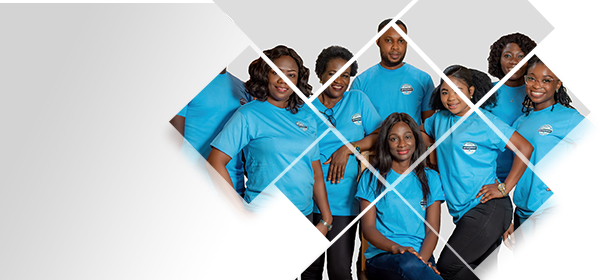
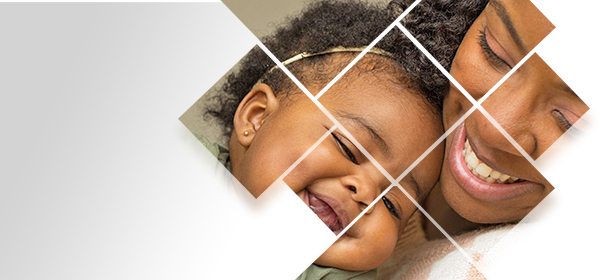
changed slideshow 3 and 4 to a new one and fixed the hero text for the slideshow images

diff --git a/index.html b/index.html
@@ -27,6 +27,10 @@
       rel="stylesheet"
       href="https://cdnjs.cloudflare.com/ajax/libs/font-awesome/4.7.0/css/font-awesome.min.css"
     />
+    <link
+      rel="stylesheet"
+      href="https://cdnjs.cloudflare.com/ajax/libs/font-awesome/6.2.0/css/all.min.css"
+    />
     <script src="http://code.jquery.com/jquery-3.1.1.js"></script>
     <script src="./js/multi-animated-counter.js"></script>
     <script src="https://ajax.googleapis.com/ajax/libs/angularjs/1.6.9/angular.min.js"></script>
@@ -282,10 +286,10 @@
                 <div class="slider">
                   <div class="content">
                     <div class="content-txt">
-                      <h2>Lab Staff & M.D.</h2>
+                      <h2>Focusing on Quality</h2>
                       <p>
-                        Nam ultrices pellentesque facilisis. In semper tellus
-                        mollis nisl pulvinar.
+                        Cross section photo of Director and Staff, representing
+                        our virtue & Quality.
                       </p>
                     </div>
                   </div>
@@ -299,10 +303,10 @@
                 <div class="slider">
                   <div class="content">
                     <div class="content-txt">
-                      <h2 id="styledText">Qualified Nurses</h2>
+                      <h2 id="styledText">Our Doctors, Our Pride!</h2>
                       <p>
-                        Nam ultrices pellentesque facilisis. In semper tellus
-                        mollis nisl pulvinar.
+                        We only work with the qualified, giving you guaranteed
+                        healthcare.
                       </p>
                     </div>
                   </div>
@@ -316,10 +320,10 @@
                 <div class="slider">
                   <div class="content">
                     <div class="content-txt">
-                      <h2>Qualified Scientist</h2>
+                      <h2>Geriatric Care</h2>
                       <p>
-                        Nam ultrices pellentesque facilisis. In semper tellus
-                        mollis nisl pulvinar.
+                        We offer creative aging for the old by caring for them
+                        at delicate age.
                       </p>
                     </div>
                   </div>
@@ -333,11 +337,8 @@
                 <div class="slider">
                   <div class="content">
                     <div class="content-txt">
-                      <h2>Lab Staff & M.D.</h2>
-                      <p>
-                        Nam ultrices pellentesque facilisis. In semper tellus
-                        mollis nisl pulvinar.
-                      </p>
+                      <h2>Paediatrics</h2>
+                      <p>A healthy home, a healthy child.</p>
                     </div>
                   </div>
                   <div class="image">
@@ -1088,18 +1089,18 @@
                 <a
                   href="https://www.facebook.com/thewestendhospital"
                   target="_blank"
-                  class="fa fa-facebook"
+                  class="fa-brands fa-facebook-f"
                 ></a>
-                <a href="#/" class="fa fa-twitter"></a>
+                <a href="#/" class="fa-brands fa-twitter"></a>
                 <a
                   href="https://instagram.com/westendhospitalwarri"
                   target="_blank"
-                  class="fa fa-instagram"
+                  class="fa-brands fa-instagram"
                 ></a>
                 <a
                   href="https://www.linkedin.com/company/westend-hospital"
                   target="_blank"
-                  class="fa fa-linkedin"
+                  class="fa-brands fa-linkedin-in"
                 ></a>
               </div>
             </div>

diff --git a/css/slideshow.css b/css/slideshow.css
@@ -1,5 +1,5 @@
-@import url('https://fonts.googleapis.com/css2?family=Dancing+Script:wght@700&family=Oxygen:wght@300;400;700&family=Poppins:wght@300;400;500;600;700;800;900&family=Raleway:wght@300;400;500;600;700;800;900&display=swap');
-@import url('https://fonts.googleapis.com/css2?family=Lora:wght@500;600;700&display=swap');
+@import url("https://fonts.googleapis.com/css2?family=Dancing+Script:wght@700&family=Oxygen:wght@300;400;700&family=Poppins:wght@300;400;500;600;700;800;900&family=Raleway:wght@300;400;500;600;700;800;900&display=swap");
+@import url("https://fonts.googleapis.com/css2?family=Lora:wght@500;600;700&display=swap");
 */
 /*
 
@@ -71,18 +71,16 @@
   text-align: left;
   margin-left: 30px;
   margin-bottom: 0;
-  font-family: 'Lora', serif;
+  font-family: "Lora", serif;
 }
 .content-txt p {
   font-family: arial;
-  font-weight: normal;
+  font-weight: 300;
   font-size: 0.7em;
-  font-family: var(--poppins-fontFamily);
   font-style: italic;
-  color: var(--grey-color-subheading);
+  color: #012d5a;
   text-align: left;
   margin-left: 30px;
-  font-weight: 400;
 }
 
 /* Switch */
@@ -156,13 +154,12 @@
     font-size: 1em;
     line-height: 1.4em;
     font-weight: 700;
-    font-family: 'Lora', serif;
+    font-family: "Lora", serif;
     text-transform: capitalize;
   }
   .content-txt p {
     max-width: 90%;
     font-size: 0.6em;
-    font-weight: 500;
     font-style: normal;
     font-family: var(--poppins-fontFamily);
     display: block;
@@ -192,7 +189,6 @@
   }
   .content-txt p {
     font-size: 0.7em;
-    font-weight: 400;
   }
 }
 
@@ -251,7 +247,6 @@
     display: block;
     margin-right: auto;
     font-size: 0.8em;
-    font-weight: 500;
     font-style: normal;
     line-height: 1.2em;
   }
